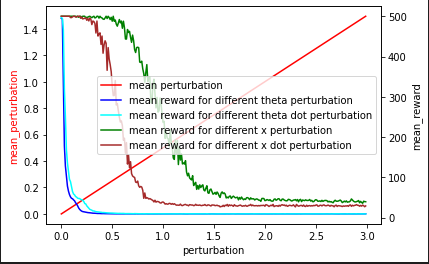
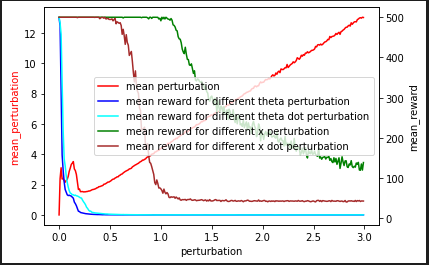
Re-run with fixed inaccuracies

diff --git a/workspace/improvements.md b/workspace/improvements.md
@@ -24,10 +24,12 @@ Remember to re-run the evaluation and visualisation too and modify the README. <
 - <s>move perturb() into separate python file</s>
 - rerun and remove division by timestep for mean perturbation
   - also do something about the difference in the threshold for x and theta
+- nochmal etwas allgemeiner und näher am paper implementieren
 
 ## Strategically timed attack
 
 - <s>results do not seem right</s>
+- nochmal etwas allgemeiner und näher am paper implementieren
 
 ## Update README with info on stable-baselines3
 

diff --git a/workspace/README.md b/workspace/README.md
@@ -61,3 +61,5 @@ A custom version of the CartPole environment. This version has an increased maxi
 ## Adversarial attacks
 
 ### Uniform attack
+
+### Strategically timed attack
